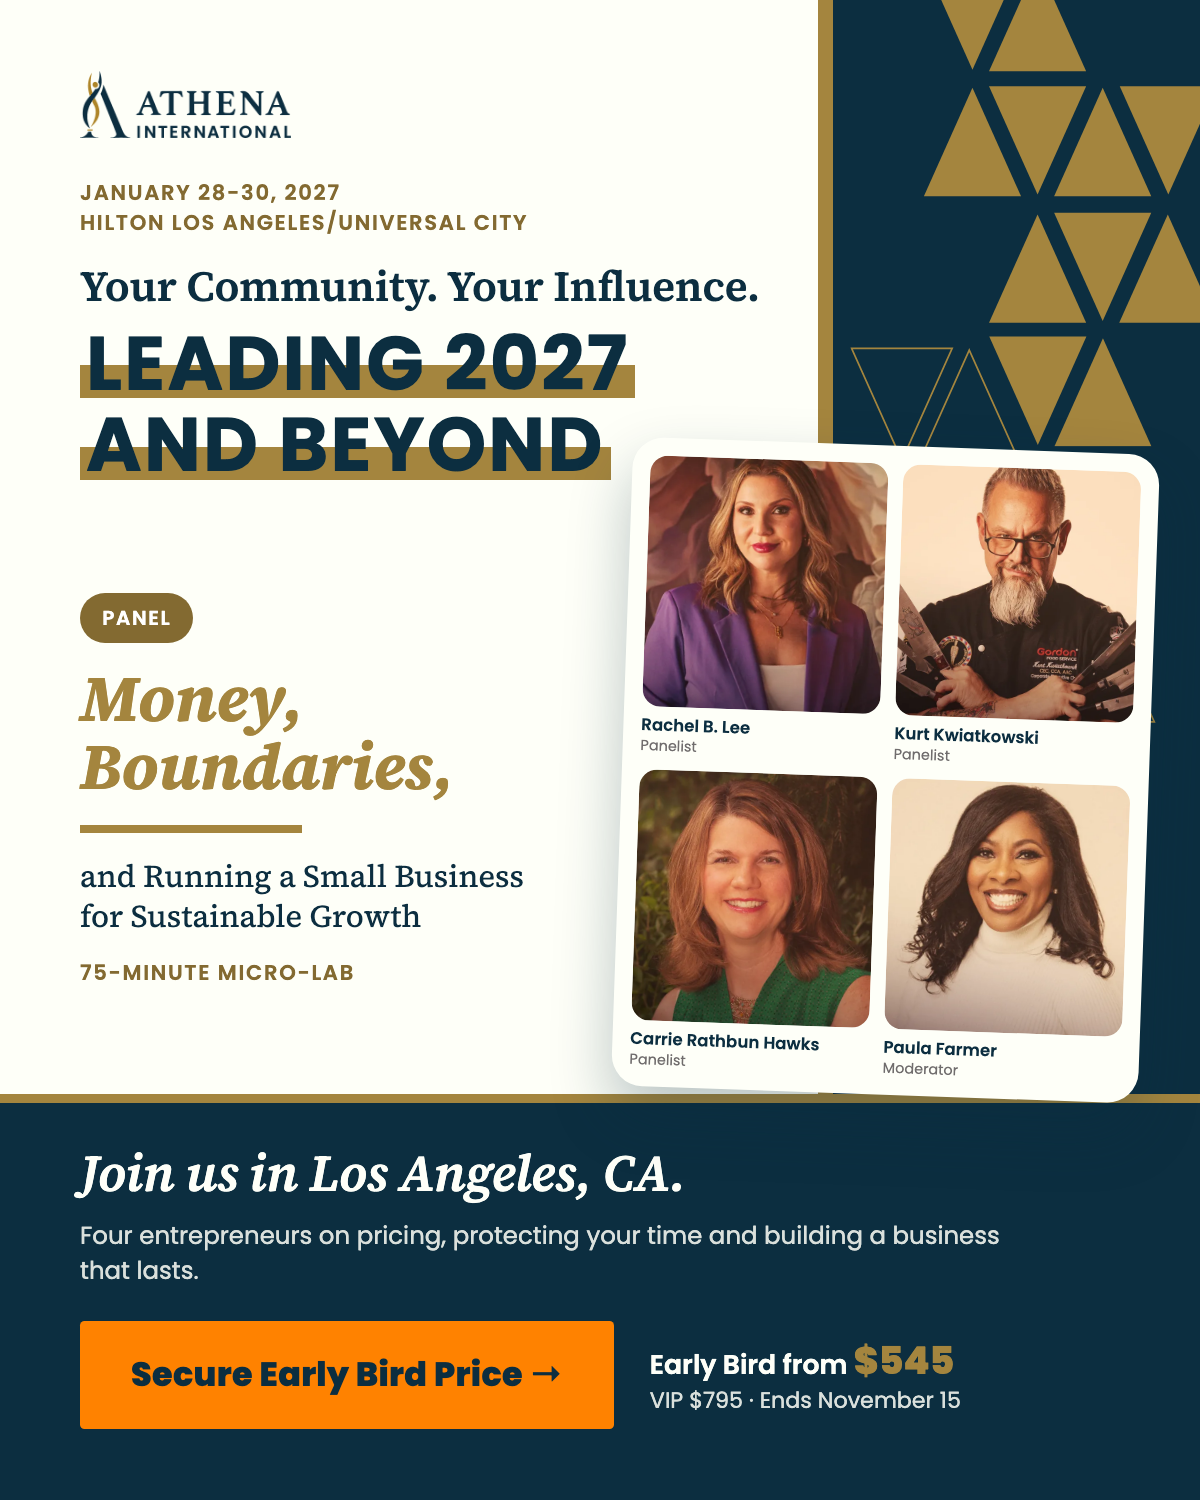
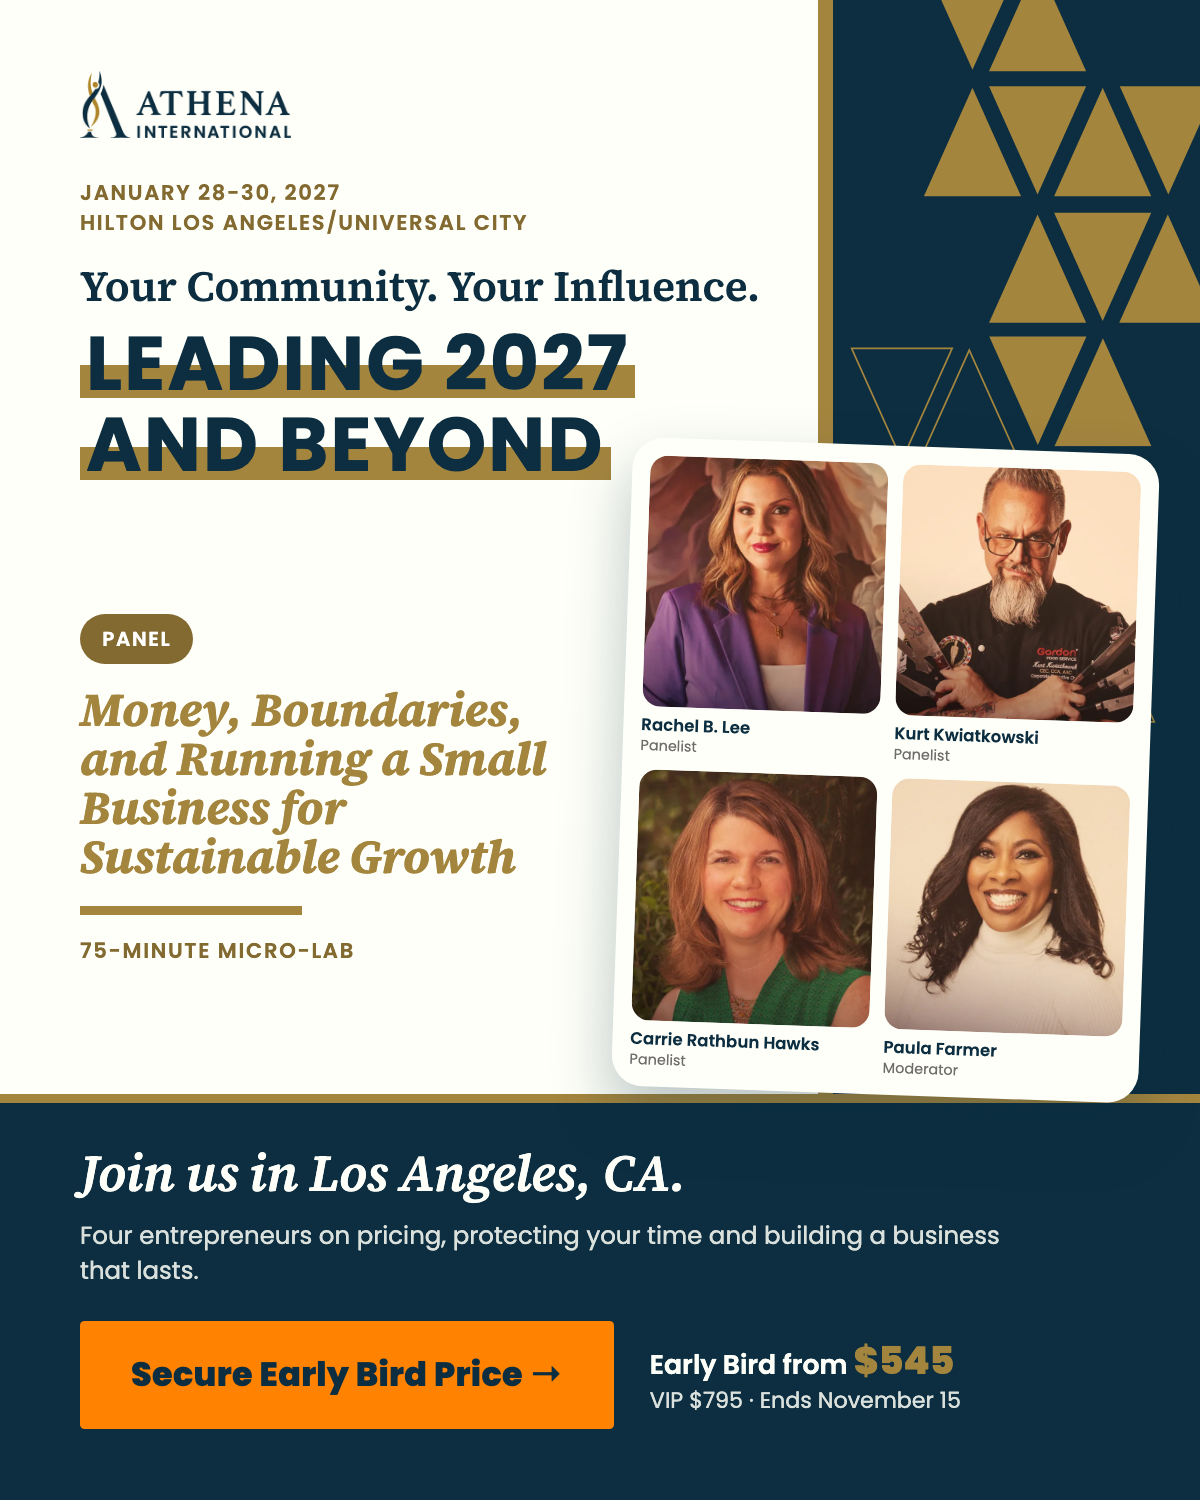
kit de speakers atualizado

Changed region(s): [[0.0617, 0.368, 0.4625, 0.6747]]

diff --git a/index.html b/index.html
@@ -1629,7 +1629,7 @@ Early Bird pricing from $545 ends November 15.
 https://conference.athenainternational.org/?utm_source=linkedin&amp;utm_medium=post&amp;utm_campaign=social_2027&amp;utm_content=painel-turbulence
 
 #ATHENA2027 #WomenInLeadership #WomenInAviation</pre><button type="button" class="copy" data-for="s-painel-turbulence-li">Copy text</button></div></article></div></section><section class="spk" id="painel-money"><header class="spkhead"><div><p class="role">ATHENA accounts and the panelists</p><h3>Panel: Money, Boundaries, and Running a Small Business</h3></div>
-<div class="tags"><a href="social/painel-money/captions.txt?v=730e85d7" target="_blank" rel="noopener">captions.txt</a></div></header><div class="chs"><article class="ch"><a class="shot" href="social/painel-money/painel-money_ig-post_1080x1350.png?v=5f454554" target="_blank" rel="noopener"><img src="social/painel-money/painel-money_ig-post_1080x1350.png?v=5f454554" alt="Panel: Money, Boundaries, and Running a Small Business, Instagram Post" loading="lazy" width="1080" height="1350"></a>
+<div class="tags"><a href="social/painel-money/captions.txt?v=730e85d7" target="_blank" rel="noopener">captions.txt</a></div></header><div class="chs"><article class="ch"><a class="shot" href="social/painel-money/painel-money_ig-post_1080x1350.png?v=cb2457c6" target="_blank" rel="noopener"><img src="social/painel-money/painel-money_ig-post_1080x1350.png?v=cb2457c6" alt="Panel: Money, Boundaries, and Running a Small Business, Instagram Post" loading="lazy" width="1080" height="1350"></a>
 <div class="chbody"><h4>Instagram Post<span>1080 × 1350</span></h4>
 <pre id="s-painel-money-ig">Growth without boundaries is just burnout with better numbers.
 
@@ -1641,10 +1641,10 @@ Early Bird pricing from $545 ends November 15.
 Tickets: conference.athenainternational.org
 
 #ATHENA2027 #WomenInLeadership #LeadershipDevelopment #WomenLeaders #LosAngeles #SmallBusiness #Entrepreneurship</pre><button type="button" class="copy" data-for="s-painel-money-ig">Copy text</button></div></article>
-<article class="ch"><a class="shot" href="social/painel-money/painel-money_ig-story_1080x1920.png?v=54efb3bb" target="_blank" rel="noopener"><img src="social/painel-money/painel-money_ig-story_1080x1920.png?v=54efb3bb" alt="Panel: Money, Boundaries, and Running a Small Business, Instagram Story" loading="lazy" width="1080" height="1920"></a>
+<article class="ch"><a class="shot" href="social/painel-money/painel-money_ig-story_1080x1920.png?v=4cbc486d" target="_blank" rel="noopener"><img src="social/painel-money/painel-money_ig-story_1080x1920.png?v=4cbc486d" alt="Panel: Money, Boundaries, and Running a Small Business, Instagram Story" loading="lazy" width="1080" height="1920"></a>
 <div class="chbody"><h4>Instagram Story<span>1080 × 1920</span></h4><p class="meta">Link sticker “Get your pass”<br><span class="url">https://conference.athenainternational.org/?utm_source=instagram&amp;utm_medium=story&amp;utm_campaign=social_2027&amp;utm_content=painel-money</span>Mention sticker @athena_international</p>
 <pre id="s-painel-money-st">Real talk on money and boundaries</pre><button type="button" class="copy" data-for="s-painel-money-st">Copy text</button></div></article>
-<article class="ch"><a class="shot" href="social/painel-money/painel-money_linkedin_1200x1500.png?v=6ab2a132" target="_blank" rel="noopener"><img src="social/painel-money/painel-money_linkedin_1200x1500.png?v=6ab2a132" alt="Panel: Money, Boundaries, and Running a Small Business, LinkedIn Post" loading="lazy" width="1080" height="1350"></a>
+<article class="ch"><a class="shot" href="social/painel-money/painel-money_linkedin_1200x1500.png?v=652ac4b6" target="_blank" rel="noopener"><img src="social/painel-money/painel-money_linkedin_1200x1500.png?v=652ac4b6" alt="Panel: Money, Boundaries, and Running a Small Business, LinkedIn Post" loading="lazy" width="1080" height="1350"></a>
 <div class="chbody"><h4>LinkedIn Post<span>1200 × 1500</span></h4>
 <pre id="s-painel-money-li">Growing a business is hard. Growing it without burning out is harder.
 
